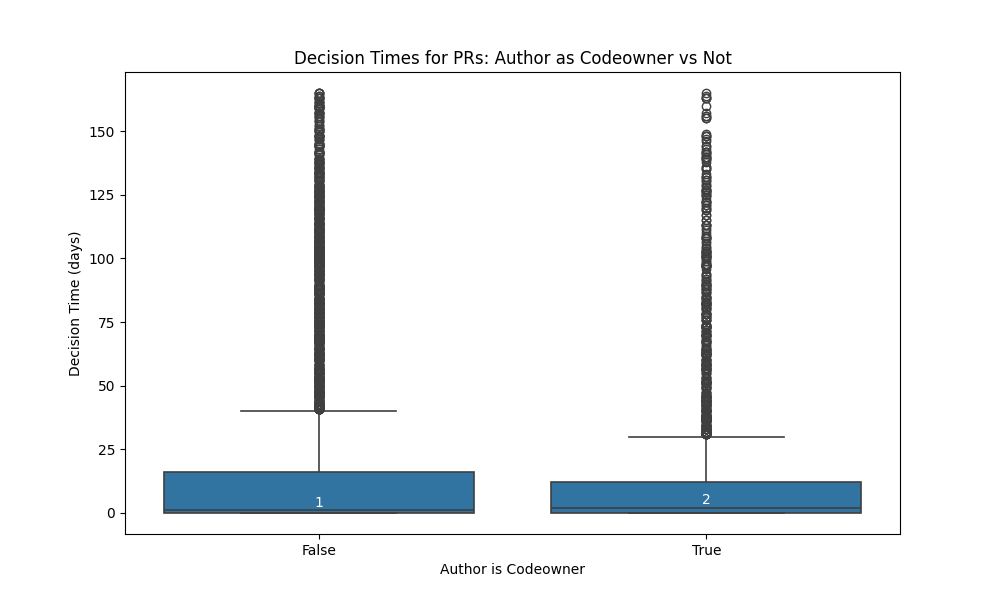
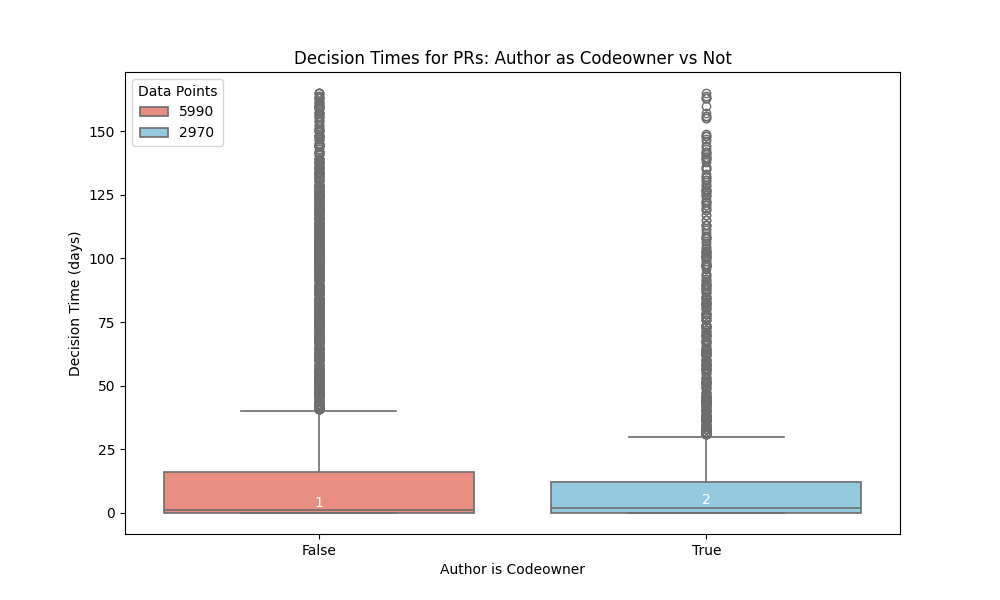
Add counts to codeowners plot

diff --git a/plots/decision_time_feature_with_codeowners.py b/plots/decision_time_feature_with_codeowners.py
@@ -36,11 +36,14 @@ upper_limit = df['Decision Time'].quantile(0.95)
 df = df[df['Decision Time'] <= upper_limit]
 
 plt.figure(figsize=(10, 6))
-ax = sns.boxplot(x='Author is Codeowner', y='Decision Time', data=df, linewidth=1.2)
+ax = sns.boxplot(x='Author is Codeowner', y='Decision Time', data=df, linewidth=1.2, palette={True: 'skyblue', False: 'salmon'}, hue='Author is Codeowner', legend=False)
 
 medians = df.groupby('Author is Codeowner')['Decision Time'].median()
 for tick, median in zip(ax.get_xticks(), medians):
     ax.text(tick, median + 1.5, f'{int(median)}', horizontalalignment='center', size=10, color='white')
+
+counts = df['Author is Codeowner'].value_counts()
+plt.legend(title='Data Points', loc='upper left', labels=[counts.get(False), counts.get(True)])
 
 plt.xlabel('Author is Codeowner')
 plt.ylabel('Decision Time (days)')

diff --git a/plots/integration_vs_feature_characteristics.py b/plots/integration_vs_feature_characteristics.py
@@ -2,7 +2,7 @@ import matplotlib.pyplot as plt
 import pandas as pd
 import numpy as np
 
-df = pd.read_csv("../data/pull_requests_filtered.csv")
+df = pd.read_csv("data/pull_requests_filtered.csv")
 
 # Filter rows based on "Type of Change"
 new_integration_prs = df[df['Type of Change'].str.contains('New integration')]
